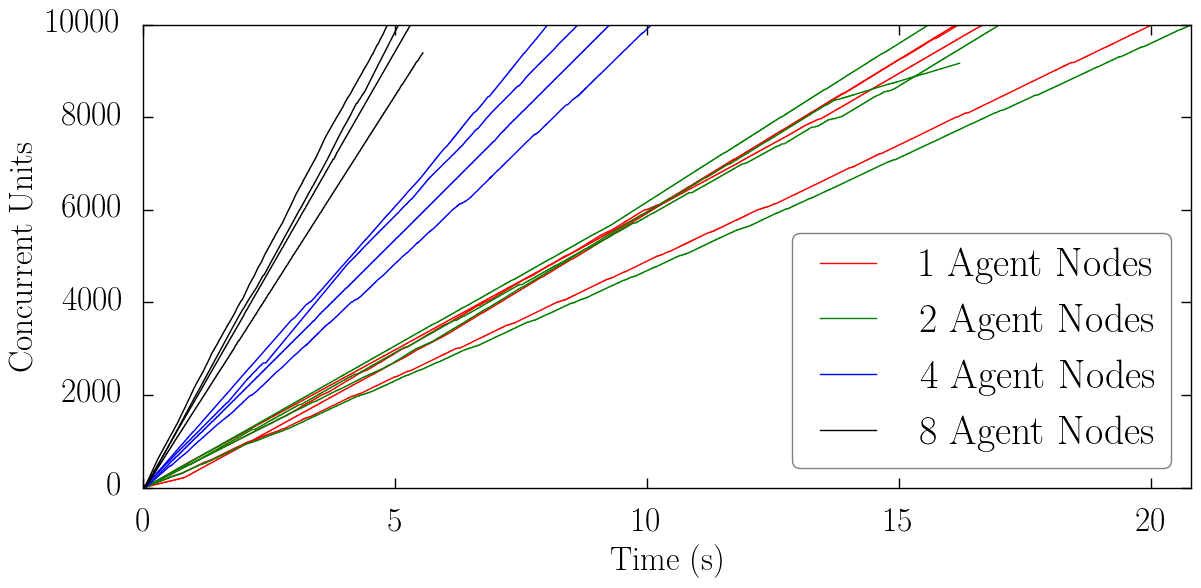
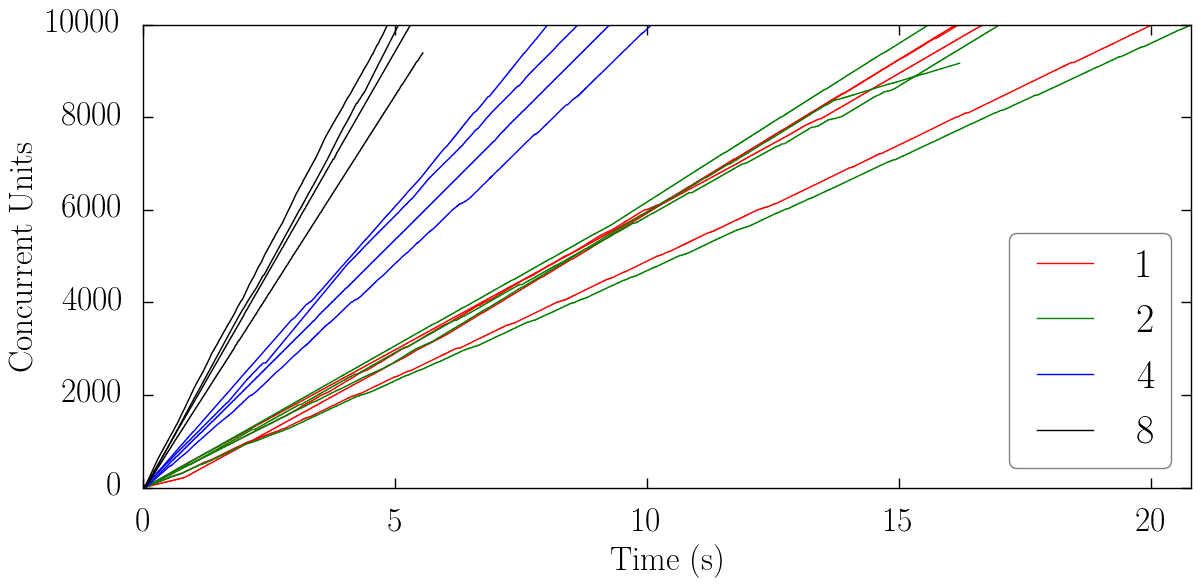
fig update

diff --git a/plot.py b/plot.py
@@ -107,7 +107,7 @@ def translate_label(label):
   # ret = "%-10s" % r
 
     n = int(a) * int(w)
-    ret = " %2d " % int(n)
+    ret = " %2d " % int(a)
 
     return ret
 
